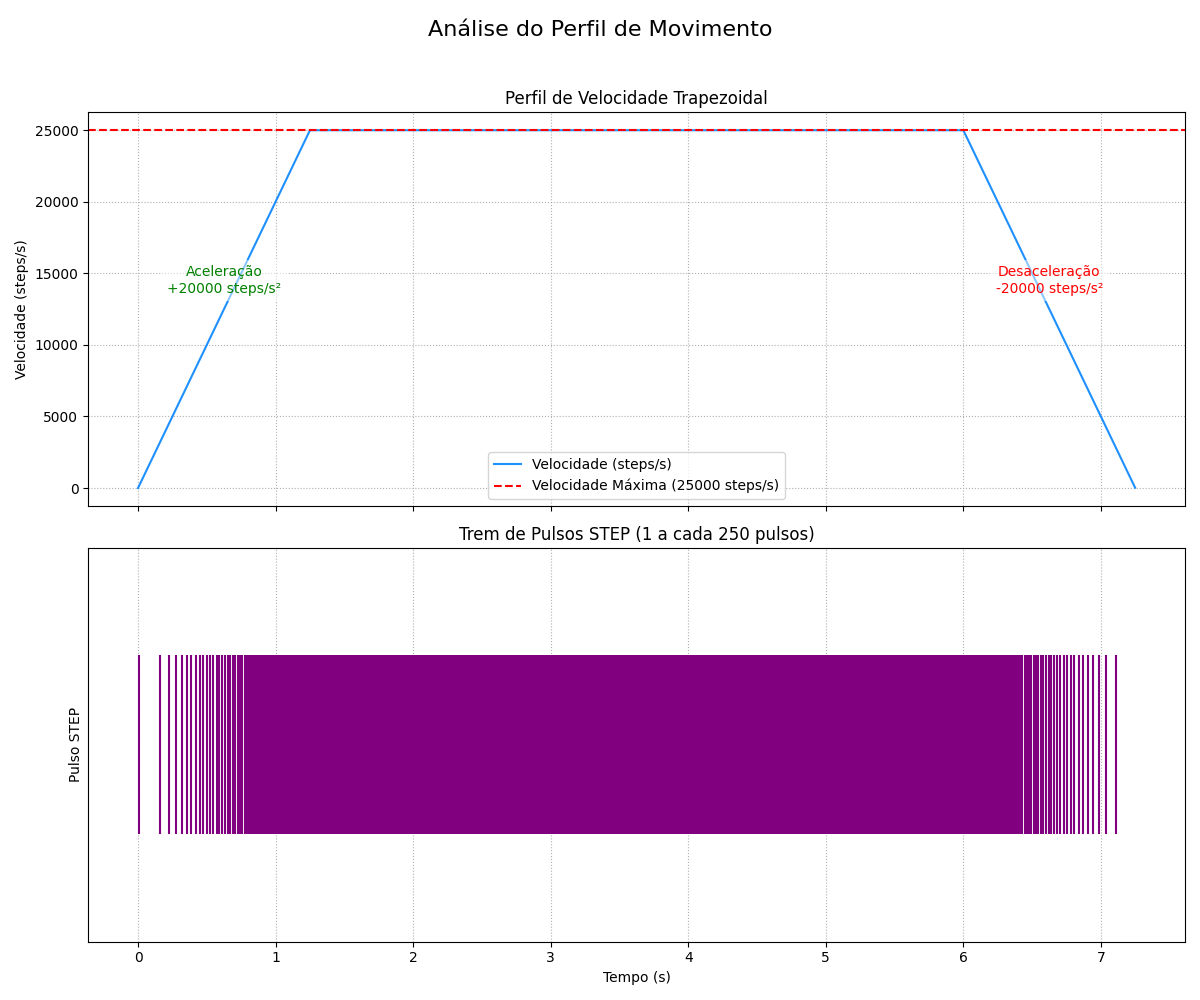
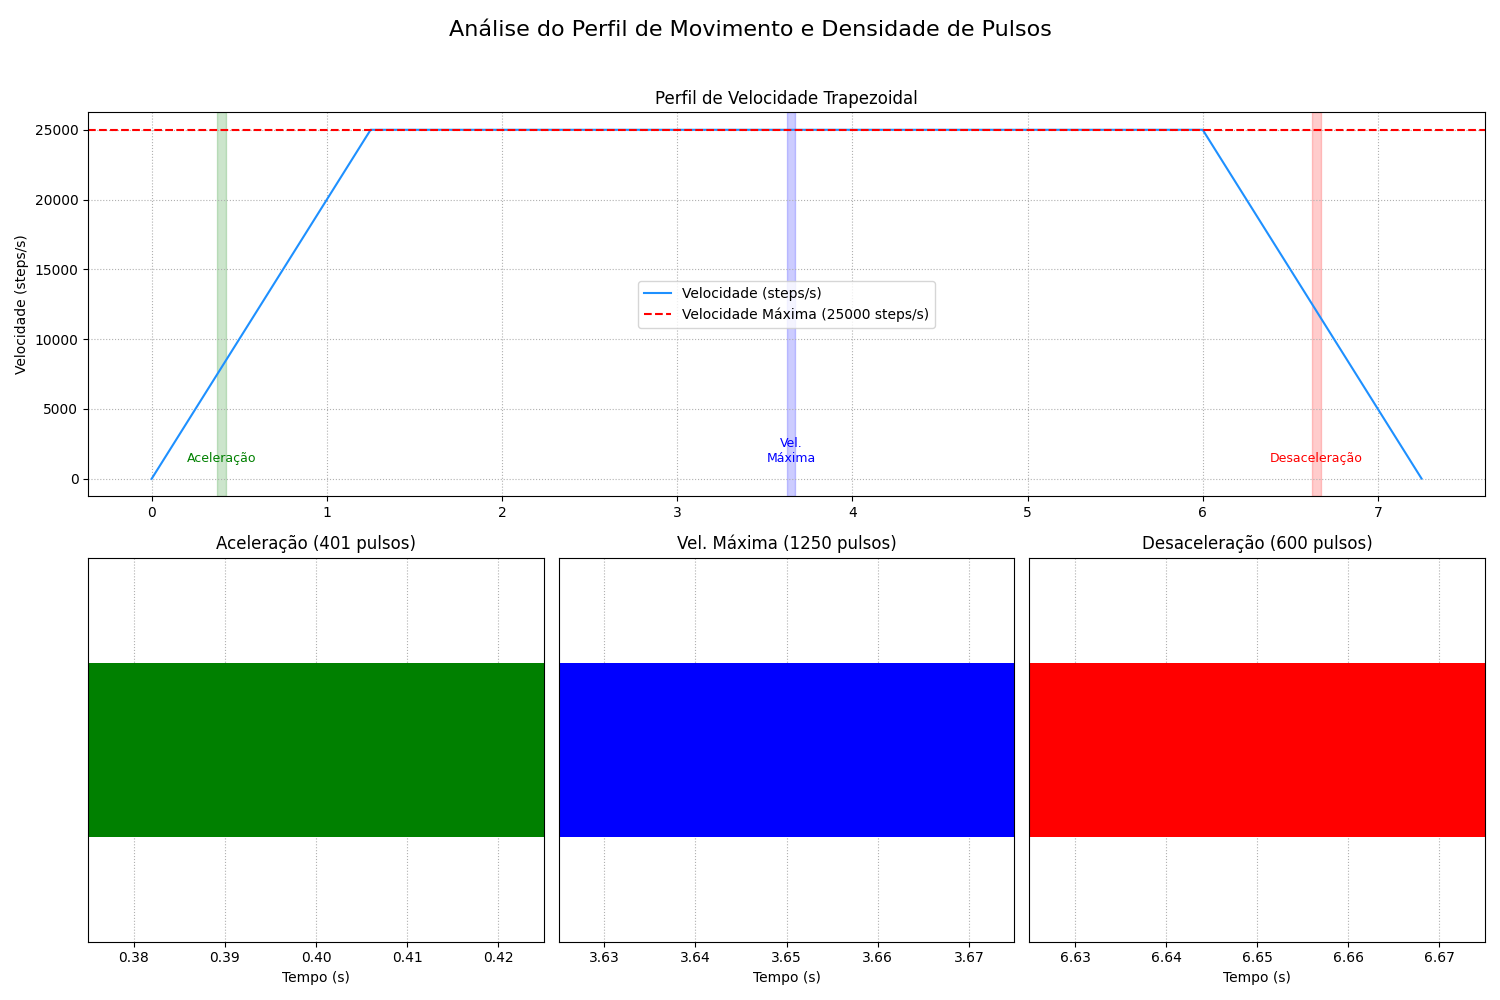
Adicionado grafico de rampa

diff --git a/generate_ramp_graph.py b/generate_ramp_graph.py
@@ -1,4 +1,3 @@
-
 import matplotlib.pyplot as plt
 import numpy as np
 import os
@@ -9,7 +8,7 @@ ACCEL_SPS2 = 20000  # steps/s^2
 MAX_VELOCITY_SPS = 25000  # steps/s
 TIME_STEP_S = 0.001  # 1ms from TIM7
 
-# Simulation variables
+# --- Simulation ---
 time_points = [0]
 velocity_points = [0]
 distance_points = [0]
@@ -19,30 +18,28 @@ time_s = 0
 
 while total_distance_steps < TOTAL_STEPS:
     time_s += TIME_STEP_S
-
-    # Braking distance: s = v^2 / (2*a)
-    braking_distance = (current_velocity_sps ** 2) / (2 * ACCEL_SPS2)
+    braking_distance = (current_velocity_sps ** 2) / (2 * ACCEL_SPS2) if ACCEL_SPS2 > 0 else float('inf')
     remaining_steps = TOTAL_STEPS - total_distance_steps
-
     if remaining_steps <= braking_distance:
-        # Deceleration phase
         current_velocity_sps -= ACCEL_SPS2 * TIME_STEP_S
         current_velocity_sps = max(0, current_velocity_sps)
     else:
-        # Acceleration/Constant velocity phase
         current_velocity_sps += ACCEL_SPS2 * TIME_STEP_S
         current_velocity_sps = min(MAX_VELOCITY_SPS, current_velocity_sps)
-
-    # Update distance moved in this time step
     total_distance_steps += current_velocity_sps * TIME_STEP_S
-
     time_points.append(time_s)
     velocity_points.append(current_velocity_sps)
     distance_points.append(total_distance_steps)
 
 # --- Plotting ---
-fig, (ax1, ax2) = plt.subplots(2, 1, figsize=(12, 10), sharex=True)
-fig.suptitle('Análise do Perfil de Movimento', fontsize=16)
+fig = plt.figure(figsize=(15, 10))
+gs = fig.add_gridspec(2, 3)
+ax1 = fig.add_subplot(gs[0, :])
+ax_zoom1 = fig.add_subplot(gs[1, 0])
+ax_zoom2 = fig.add_subplot(gs[1, 1])
+ax_zoom3 = fig.add_subplot(gs[1, 2])
+
+fig.suptitle('Análise do Perfil de Movimento e Densidade de Pulsos', fontsize=16)
 
 # --- Subplot 1: Perfil de Velocidade ---
 ax1.plot(time_points, velocity_points, label='Velocidade (steps/s)', color='dodgerblue')
@@ -50,52 +47,48 @@ ax1.set_title('Perfil de Velocidade Trapezoidal')
 ax1.set_ylabel('Velocidade (steps/s)')
 ax1.grid(True, linestyle=':')
 ax1.axhline(y=MAX_VELOCITY_SPS, color='r', linestyle='--', label=f'Velocidade Máxima ({MAX_VELOCITY_SPS} steps/s)')
-
-# Anotações de Aceleração
-time_to_accel = MAX_VELOCITY_SPS / ACCEL_SPS2
-steps_for_accel = ACCEL_SPS2 * (time_to_accel**2) / 2
-steps_for_decel = steps_for_accel
-steps_on_plateau = TOTAL_STEPS - (steps_for_accel + steps_for_decel)
-time_on_plateau = steps_on_plateau / MAX_VELOCITY_SPS if MAX_VELOCITY_SPS > 0 else 0
-accel_time_annotation = time_to_accel * 0.5
-accel_vel_annotation = MAX_VELOCITY_SPS * 0.5
-ax1.text(accel_time_annotation, accel_vel_annotation + 2000, f'Aceleração\n+{ACCEL_SPS2} steps/s²', ha='center', va='center', color='green', bbox=dict(facecolor='white', alpha=0.5, edgecolor='none'))
-decel_time_annotation = time_to_accel + time_on_plateau + time_to_accel * 0.5
-decel_vel_annotation = MAX_VELOCITY_SPS * 0.5
-ax1.text(decel_time_annotation, decel_vel_annotation + 2000, f'Desaceleração\n-{ACCEL_SPS2} steps/s²', ha='center', va='center', color='red', bbox=dict(facecolor='white', alpha=0.5, edgecolor='none'))
 ax1.legend()
 
-# --- Subplot 2: Trem de Pulsos STEP (Amostrado) ---
-# Gera os timestamps exatos de cada pulso por interpolação
+# --- Subplots de Zoom: Trem de Pulsos ---
 pulse_times = []
 last_step_count = 0
+distance_points_floor = np.floor(distance_points)
 for i in range(1, len(distance_points)):
-    current_step_count = np.floor(distance_points[i])
-    if current_step_count > last_step_count:
-        num_new_pulses = int(current_step_count - last_step_count)
-        # Interpola para encontrar o tempo de cada pulso
+    if distance_points_floor[i] > distance_points_floor[i-1]:
+        num_new_pulses = int(distance_points_floor[i] - distance_points_floor[i-1])
         for j in range(num_new_pulses):
-            frac = ((last_step_count + 1 + j) - distance_points[i-1]) / (distance_points[i] - distance_points[i-1])
+            frac = ((distance_points_floor[i-1] + 1 + j) - distance_points[i-1]) / (distance_points[i] - distance_points[i-1]) if (distance_points[i] - distance_points[i-1]) > 0 else 0
             t_pulse = time_points[i-1] + frac * TIME_STEP_S
-            if t_pulse < time_points[i]:
+            if t_pulse <= time_points[i]:
                  pulse_times.append(t_pulse)
-        last_step_count = current_step_count
 
-# Amostragem dos pulsos para visualização
-sample_rate = 250
-sampled_pulse_times = pulse_times[::sample_rate]
+# Define as janelas de tempo para o zoom (50ms de duração)
+time_to_accel = MAX_VELOCITY_SPS / ACCEL_SPS2
+steps_for_accel = ACCEL_SPS2 * (time_to_accel**2) / 2
+steps_on_plateau = TOTAL_STEPS - (2 * steps_for_accel)
+time_on_plateau = steps_on_plateau / MAX_VELOCITY_SPS if MAX_VELOCITY_SPS > 0 else 0
+win_duration = 0.05
 
-ax2.eventplot(sampled_pulse_times, color='purple', linelengths=0.75)
-ax2.set_title(f'Trem de Pulsos STEP (1 a cada {sample_rate} pulsos)')
-ax2.set_ylabel('Pulso STEP')
-ax2.set_xlabel('Tempo (s)')
-ax2.set_yticks([]) # O eixo Y não tem valor numérico, apenas representa o evento
-ax2.grid(True, axis='x', linestyle=':')
+windows = [
+    (time_to_accel * 0.3, 'Aceleração', 'green', ax_zoom1),
+    (time_to_accel + time_on_plateau * 0.5, 'Vel. Máxima', 'blue', ax_zoom2),
+    (time_to_accel + time_on_plateau + time_to_accel * 0.5, 'Desaceleração', 'red', ax_zoom3)
+]
+
+for start, label, color, ax in windows:
+    end = start + win_duration
+    win_pulses = [t for t in pulse_times if start <= t < end]
+    ax.eventplot(win_pulses, color=color, linelengths=0.8)
+    ax.set_title(f'{label} ({len(win_pulses)} pulsos)')
+    ax.set_xlabel('Tempo (s)')
+    ax.set_yticks([])
+    ax.set_xlim(start, end)
+    ax.grid(True, axis='x', linestyle=':')
+    ax1.axvspan(start, end, color=color, alpha=0.2)
+    ax1.text(start + win_duration/2, 1000, label.replace(' ', '\n'), ha='center', va='bottom', color=color, fontsize=9)
 
 # --- Finalização ---
 plt.tight_layout(rect=[0, 0, 1, 0.96])
-# Save the plot
 output_path = os.path.join('tcc', 'src', 'Cap03', 'rampa_trapezoidal.png')
 plt.savefig(output_path)
-
 print(f"Gráfico salvo em: {output_path}")
